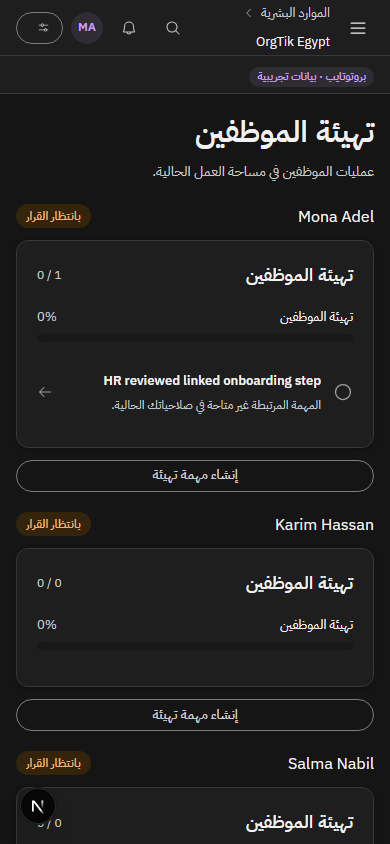
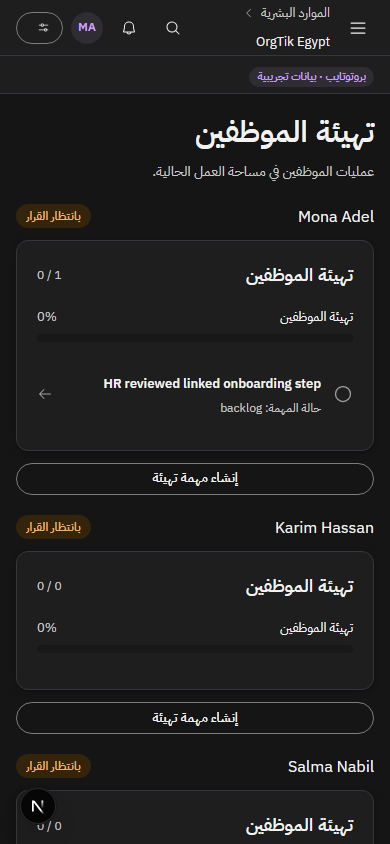
test(hr): capture resolved onboarding task states

diff --git a/program/audits/v3-p4/hr/README.md b/program/audits/v3-p4/hr/README.md
@@ -67,6 +67,6 @@ Owned runtime: session16746, presentation-rMneB0. Web 3900/3901/3904; API 7900/7
 
 ## Reviewed onboarding status follow-up
 
-The overall employee badge now uses the exact same resolved linked/manual steps as the checklist, independently of the employment wizard's onboardingComplete flag. Empty and unavailable linked work stay Pending. References refresh on focus/visibility and every30seconds while visible, scoped to the current workspace/token. Manual steps have no mutation affordance when the current actor cannot manage them; unavailable linked steps have none.
+The overall employee badge now uses the exact same resolved linked/manual steps as the checklist, independently of the employment wizard's onboardingComplete flag. Empty and unavailable linked work stay Pending. References refresh on focus/visibility and every 30 seconds while visible, scoped to the current workspace/token. Manual steps have no mutation affordance when the current actor cannot manage them; unavailable linked steps have none.
 
-Against shared fraction fix6b85927, onboarding-review.json records10 passing actual API/browser checks and2 AR dark390 captures. An actual Tasks record changes pending→done, then HR focus refresh changes0%/Pending→100%/Complete. The HR manual done/setup fields are unchanged. node --experimental-strip-types --test apps/hr/lib/hr-onboarding.test.mjs passes3 focused cases for empty, stale/manual and current linked status. HR typecheck passes. The original117 captures were not repeated for this bounded correction.
+Against shared fraction fix6b85927, onboarding-review.json records 11 passing actual API/browser checks and 2 AR dark390 captures. An actual Tasks record changes pending→done, then HR focus refresh changes0%/Pending→100%/Complete. The HR manual done/setup fields are unchanged. node --experimental-strip-types --test apps/hr/lib/hr-onboarding.test.mjs passes 3 focused cases for empty, stale/manual and current linked status. HR typecheck passes. The original117 captures were not repeated for this bounded correction.
